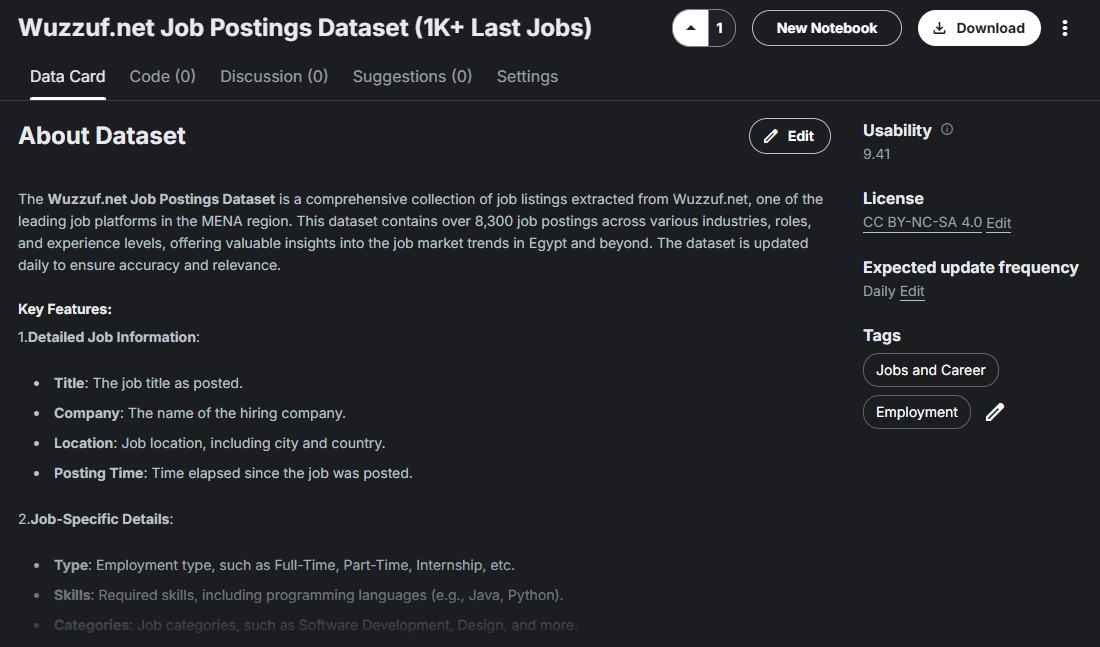
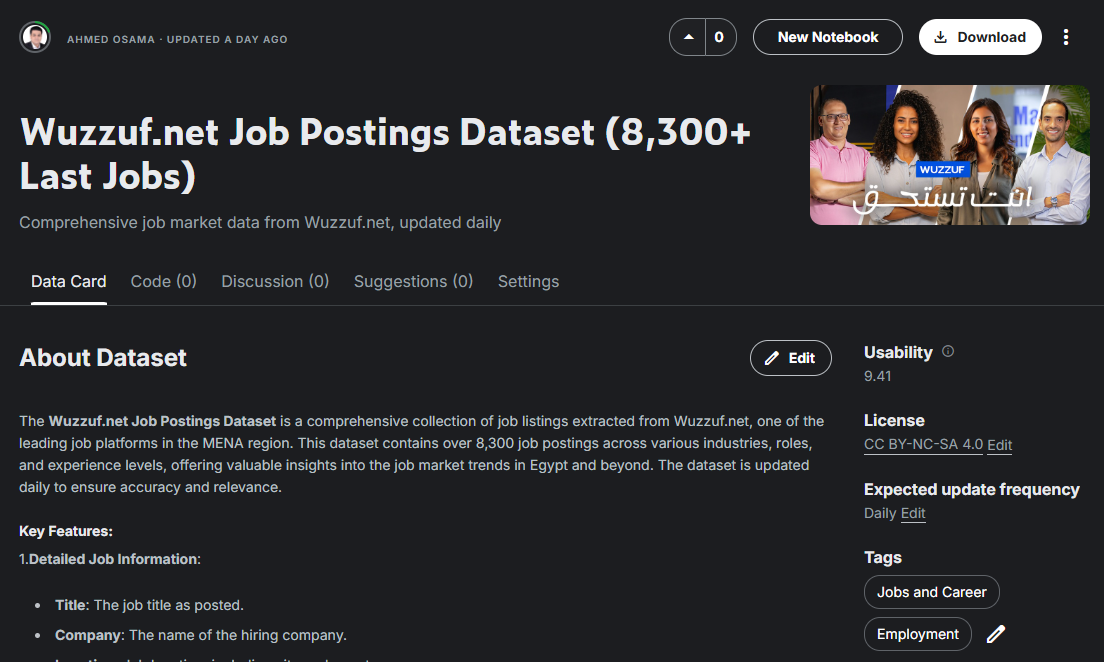
fix project

diff --git a/src/components/Projects/Projects.js b/src/components/Projects/Projects.js
@@ -28,7 +28,7 @@ function Projects() {
               isBlog={false}
               title="Wuzzuf.net Job Postings Dataset"
               description="Personal Chat Room or Workspace to share resources and hangout with friends build with react.js, Material-UI, and Firebase. Have features which allows user for realtime messaging, image sharing as well as supports reactions on messages."
-              kLink="https://www.kaggle.com/datasets/ahmedosamamath/wuzzuf-dataset"
+              kaggleLink="https://www.kaggle.com/datasets/ahmedosamamath/wuzzuf-dataset"
             />
           </Col>
         </Row>
